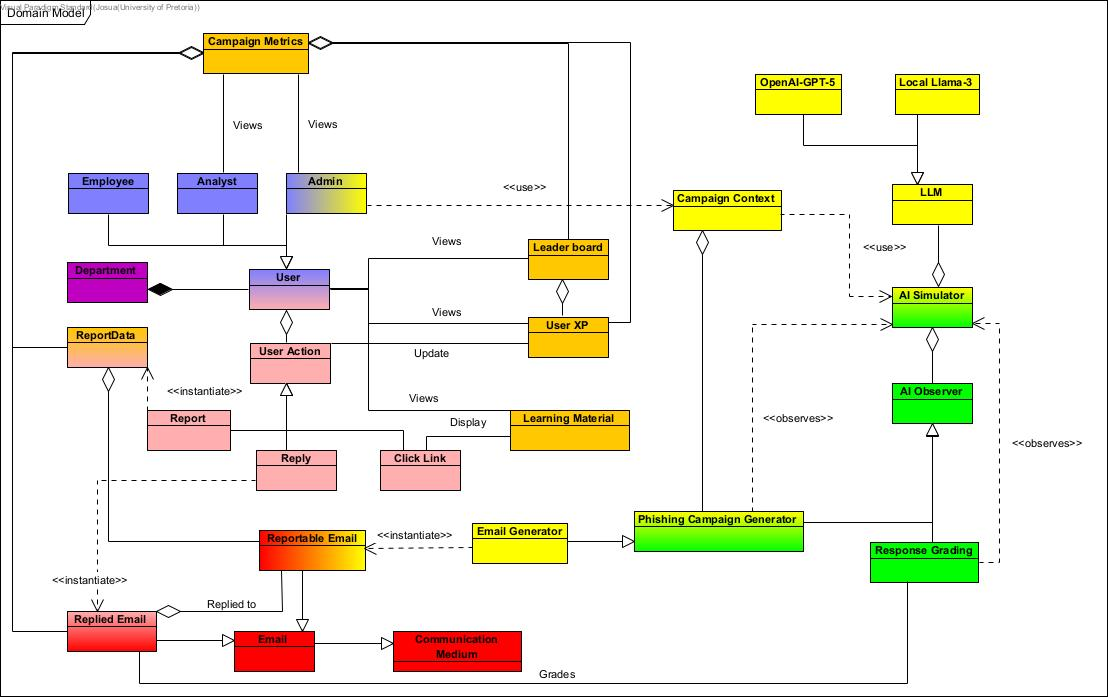
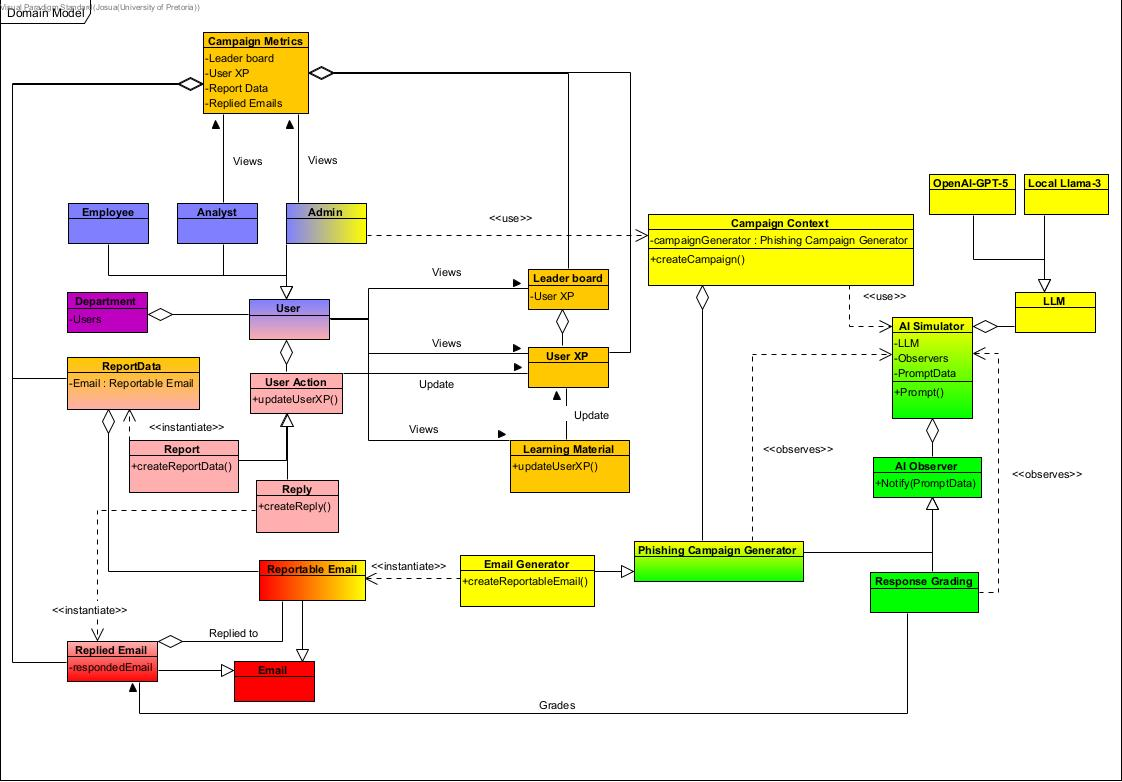
updated domain model

diff --git a/docs/SRS/Software_Requirements_Specification.md b/docs/SRS/Software_Requirements_Specification.md
@@ -216,11 +216,10 @@ The above domain model describes the Tyto-PhishShield system:
 	>The Phishing Campaign Generator can then format the data according to it's strategy. Then according to the configurations for the campaign the Campaign Context may use the strategy provided to send out the phishing attacks.<br>
 	>In this case the Email Generator is used as a factory to produce reportable emails which is sent out to the users.
 5. Moving on to the red classes: 
-	>We just use a generalization for the communication medium thourgh which phishing campaigns may take place. In this instance we stick to using emails but may expand this in the future.
+	>These class just indicate the different types of emails that is used in the system to handle sending out of emails and recieving of emails.
 6. Moving to the pink classes we have possible actions which can update the User's XP encapculated in a command pattern:
-	>A User may invoke any one of the 3 specialized actions by interacting with the system.<br>
+	>A User may invoke any one of the 2 specialized actions by interacting with the system.<br>
 	Examples:<br>
-	A User may click on a link in a reportable email. Then Learning Material will be displayed and the user will view the Learning Material.<br>
 	A User may reply to a reportable email. Then the reply may update the XP for the user and as a factory create a replied email which will be stored in the Campaign Metrics class for further analysis.<br>
 	A User may report a reportable email. Then the User XP may be updated and report data may be generated which will be stored in the Campaign Metrics class for further analysis.
 7. Moving on to the Campaign Metrics class which we have spoken of quite a bit now:
@@ -228,6 +227,7 @@ The above domain model describes the Tyto-PhishShield system:
 	The Repsonse Grading class observes the data generated by the AI simulator and can grade the replied email. <br>
 8. Lastly the few outlying classes:
 	>A User can view thier position on the Leader Board and can view thier personal XP.<br>
+	A User can also view learning material which can also update their personal XP.<br>
 	Also Users belong to a department so that the Campaign Metrics class can provide metrics related to departmental interactions with the system.
 
 ## Architecture Diagram
